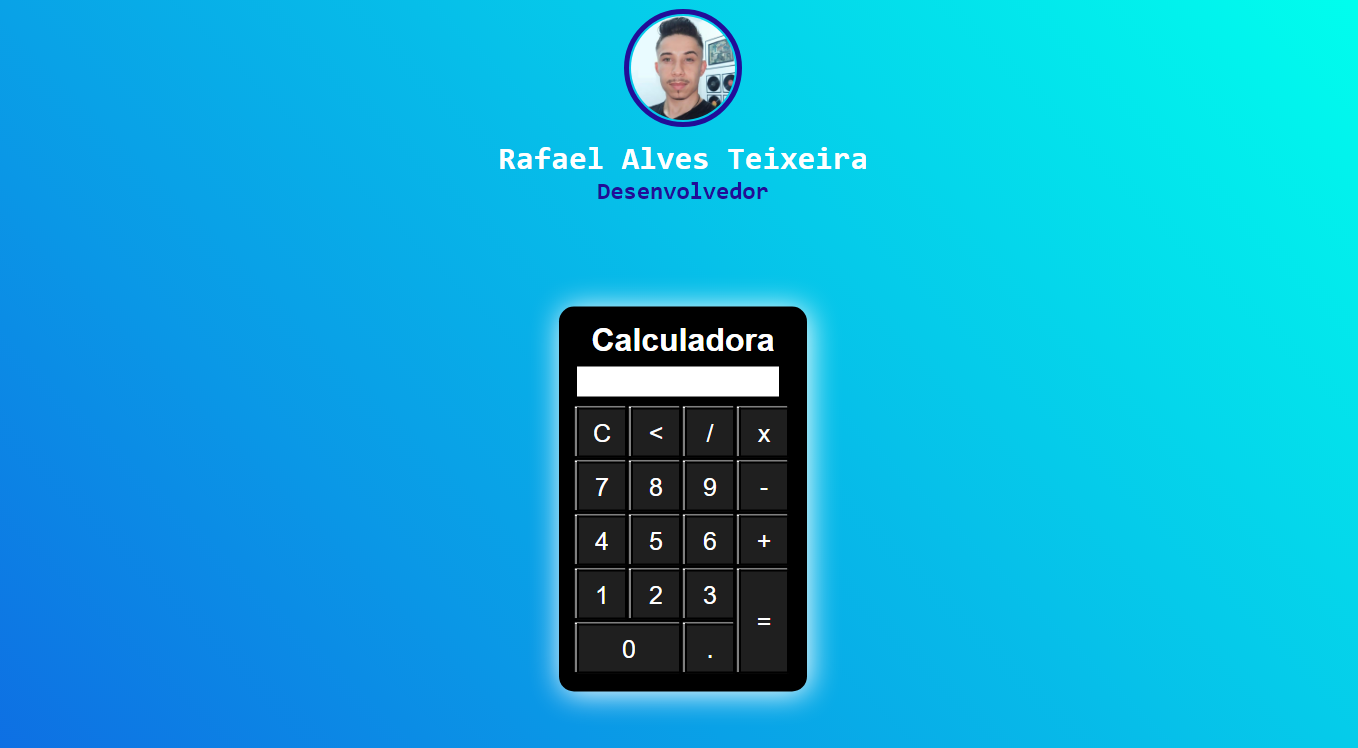
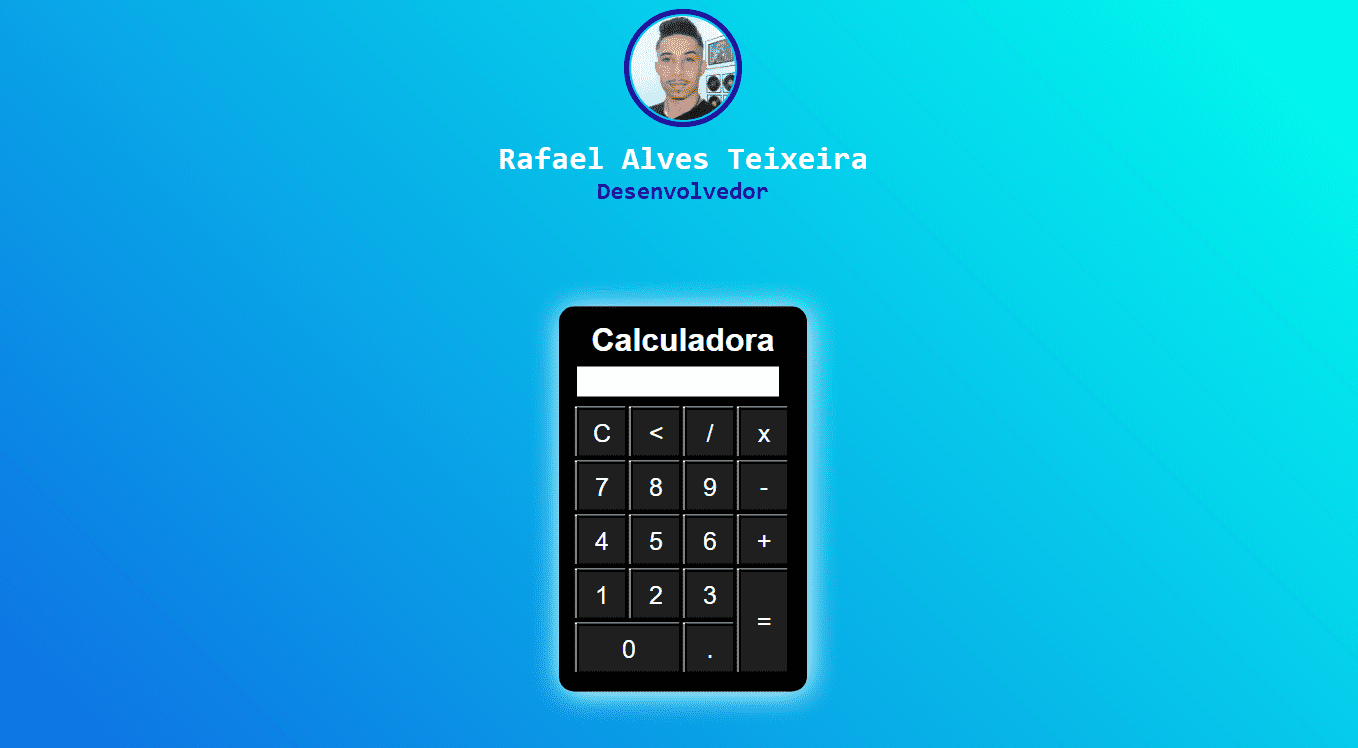
Compressed cards images, webp format

diff --git a/index.html b/index.html
@@ -83,21 +83,37 @@
                     <img src="imagens/AstronautaRafael.png" alt="Foto de Perfil Rafael">
                 </div>
                 <div class="card-sobre">
-                    <p> Minha paixão pela área de desenvolvimento e programação surgiu na época da minha graduação.  Desde o início me encantei com os estudos linguísticos de sintaxe, semântica e pragmática. E, ao final, escolhi fazer meu Trabalho de Conclusão de Curso (TCC) da faculdade no campo multidisciplinar da Linguística Computacional. Incrível experiência essa que me proporcionou ver e estudar a relação entre os estudos da linguagem humana e o desenvolvimento de linguagens de programação.
+                    <p> Minha paixão pela área de desenvolvimento e programação surgiu na época da minha graduação.
+                        Desde o início me encantei com os estudos linguísticos de sintaxe, semântica e pragmática. E, ao
+                        final, escolhi fazer meu Trabalho de Conclusão de Curso (TCC) da faculdade no campo
+                        multidisciplinar da Linguística Computacional. Incrível experiência essa que me proporcionou ver
+                        e estudar a relação entre os estudos da linguagem humana e o desenvolvimento de linguagens de
+                        programação.
                     </p>
 
-                    <p> Sou formado em Letras – Inglês/Português pela PUC-SP. Mesmo sendo professor de formação, logo que concluí a graduação eu abri a minha primeira empresa, uma livraria. Também atuei como sócio-administrador em uma agência de viagens, cujas atividades foram encerradas devido à pandemia.
-                        Estas escolhas, dentre outras experiências de trabalho, fizeram parte da minha estratégia de unir meu prazer pelo conhecimento com o meu anseio por colocar a mão na massa, encarar desafios e me expor diante de problemas para, de fato, desenvolver importantes habilidades profissionais, significativas no mundo corporativo.
+                    <p> Sou formado em Letras – Inglês/Português pela PUC-SP. Mesmo sendo professor de formação, logo
+                        que concluí a graduação eu abri a minha primeira empresa, uma livraria. Também atuei como
+                        sócio-administrador em uma agência de viagens, cujas atividades foram encerradas devido à
+                        pandemia.
+                        Estas escolhas, dentre outras experiências de trabalho, fizeram parte da minha estratégia de
+                        unir meu prazer pelo conhecimento com o meu anseio por colocar a mão na massa, encarar desafios
+                        e me expor diante de problemas para, de fato, desenvolver importantes habilidades profissionais,
+                        significativas no mundo corporativo.
                     </p>
 
-                    <p>Na minha trajetória profissional, eu aprendi muito e continuo buscando cada vez mais aprender e expandir meu conhecimento. Sempre optando por aquilo que me impulsiona a me tornar mais inteligente, mais eficiente e me desafia a evoluir.</p>
-                    <p>Foi assim, seguindo essa diretriz, que me identifiquei com o universo da programação de computadores. Aqui os principais paradigmas são: valorização do conhecimento, aprendizado constante, entrega de soluções, constante aprimoramento do uso de ferramentas tecnológicas, dinamismo e trabalho em equipe.</p>
+                    <p>Na minha trajetória profissional, eu aprendi muito e continuo buscando cada vez mais aprender e
+                        expandir meu conhecimento. Sempre optando por aquilo que me impulsiona a me tornar mais
+                        inteligente, mais eficiente e me desafia a evoluir.</p>
+                    <p>Foi assim, seguindo essa diretriz, que me identifiquei com o universo da programação de
+                        computadores. Aqui os principais paradigmas são: valorização do conhecimento, aprendizado
+                        constante, entrega de soluções, constante aprimoramento do uso de ferramentas tecnológicas,
+                        dinamismo e trabalho em equipe.</p>
                 </div>
             </div>
         </section>
 
 
-        <section class="sessao-conhecimentos" id="conhecimentos" >
+        <section class="sessao-conhecimentos" id="conhecimentos">
             <div class="sessao-header">
                 <h1 id="conhecimentos">Conhecimentos</h1>
             </div>
@@ -150,83 +166,111 @@
             <div class="sessao-header">
                 <h1>Projetos</h1>
             </div>
-            <div class="projetos">            
+            <div class="projetos">
                 <div class="card">
                     <div class="card-img-wrapper">
-                        <img src="./imagens/catalogoFilmes.png" alt="imagem do projeto Catálogo de Filmes" />
+                        <picture>
+                            <source srcset="./imagens/catalogoFilmes.webp" type="image/webp">
+                            <img src="./imagens/catalogoFilmes.png" alt="imagem do projeto Catálogo de Filmes" />
+                        </picture>
                     </div>
                     <div class="card-info">
                         <h2>Catálogo de Filmes</h2>
-                        <p>Projeto de layout um Catálogo para avaliação de filmes. Foi feita a <i>responsividade</i> da página para funcionamento em diferentes dispositivos.</p>
+                        <p>Projeto de layout um Catálogo para avaliação de filmes. Foi feita a <i>responsividade</i> da
+                            página para funcionamento em diferentes dispositivos.</p>
                         <button class="btn">Testar página</button>
                         <div class="tecs"> HTML | CSS</div>
                     </div>
                 </div>
                 <div class="card">
                     <div class="card-img-wrapper">
-                        <img src="./imagens/controleVendasDSMeta.png" alt="imagem do projeto Controle de Vendas - DSMETA" />
+                        <picture>
+                            <source srcset="./imagens/controleVendasDSMeta.webp" type="image/webp">
+                            <img src="./imagens/controleVendasDSMeta.png" alt="imagem do projeto Controle de Vendas - DSMETA" />
+                        </picture>                     
                     </div>
                     <div class="card-info">
                         <h2>Controle de Vendas</h2>
-                        <p>Tabela de controle para realizar um levantamento, por período, dos vendedores que atingiram suas metas de venda. Também possui <i>responsividade</i> para outros dispositivos.</p>
+                        <p>Tabela de controle para realizar um levantamento, por período, dos vendedores que atingiram
+                            suas metas de venda. Também possui <i>responsividade</i> para outros dispositivos.</p>
                         <button class="btn">Saiba Mais</button>
                         <div class="tecs"> Javascript | HTML | CSS</div>
                     </div>
                 </div>
                 <div class="card">
                     <div class="card-img-wrapper">
-                        <img src="./imagens/calculadora.png" alt="imagem do projeto Calculadora" />
+                        <picture>
+                            <source srcset="./imagens/calculadora.webp" type="image/webp">
+                            <img src="./imagens/calculadora.png" alt="imagem do projeto Calculadora"/>
+                        </picture>                         
                     </div>
                     <div class="card-info">
                         <h2>Calculadora</h2>
-                        <p>Nesse projeto o objetivo foi criar uma calculadora para praticar tanto as ferramentas de HTML e CSS, quanto Javascript através de funções e manipulação do DOM.</p>
+                        <p>Nesse projeto o objetivo foi criar uma calculadora para praticar tanto as ferramentas de HTML
+                            e CSS, quanto Javascript através de funções e manipulação do DOM.</p>
                         <button class="btn">Saiba Mais</button>
                         <div class="tecs">Javascript | HTML | CSS</div>
                     </div>
-                </div>    
+                </div>
                 <div class="card">
                     <div class="card-img-wrapper">
-                        <img src="./imagens/mundoInvertido.png" alt="imagem do projeto Mundo Invertido - Stranger Things" />
+                        <picture>
+                            <source srcset="./imagens/mundoInvertido.webp" type="image/webp">
+                            <img src="./imagens/mundoInvertido.png" alt="imagem do projeto Mundo Invertido - Stranger Things"/>
+                        </picture>                          
                     </div>
                     <div class="card-info">
                         <h2>Mundo Invertido</h2>
-                        <p>Com o tema da série: "Stranger Things", a estilização do CSS tem a opção de trocar para modo "dark". E também um formulário de cadastro de novos membros.</p>
+                        <p>Com o tema da série: "Stranger Things", a estilização do CSS tem a opção de trocar para modo
+                            "dark". E também um formulário de cadastro de novos membros.</p>
                         <button class="btn">Testar página</button>
                         <div class="tecs">Javascript | HTML | CSS</div>
                     </div>
                 </div>
                 <div class="card">
                     <div class="card-img-wrapper">
-                        <img src="./imagens/menuCafeteria.png" alt="imagem do projeto Menu de Cafeteria" />
+                        <picture>
+                            <source srcset="./imagens/menuCafeteria.webp" type="image/webp">
+                            <img src="./imagens/menuCafeteria.png" alt="imagem do projeto Menu de Cafeteria"/>
+                        </picture>                        
                     </div>
                     <div class="card-info">
                         <h2>Menu de Cafeteria</h2>
-                        <p>Esse é um projeto de layout de um site de uma cafeteria. Também foi estilizado para ter uma apresentação responsiva no android.</p>
+                        <p>Esse é um projeto de layout de um site de uma cafeteria. Também foi estilizado para ter uma
+                            apresentação responsiva no android.</p>
                         <button class="btn">Saiba Mais</button>
                         <div class="tecs">HTML | CSS</div>
                     </div>
                 </div>
                 <div class="card">
                     <div class="card-img-wrapper">
-                        <img src="./imagens/calculadoraGorjeta.png" alt="imagem do projeto de uma calculadora de gorjetas" />
+                        <picture>
+                            <source srcset="./imagens/calculadoraGorjeta.webp" type="image/webp">
+                            <img src="./imagens/calculadoraGorjeta.png" alt="imagem do projeto de uma calculadora de gorjetas"/>
+                        </picture>                                                    
                     </div>
                     <div class="card-info">
                         <h2>Calculadora de Gorjetas</h2>
-                        <p>Esse projeto em encaixa no conceito de criar soluções e ferramentas úteis para simples demandas do cotidiano.</p>
+                        <p>Esse projeto em encaixa no conceito de criar soluções e ferramentas úteis para simples
+                            demandas do cotidiano.</p>
                         <button class="btn">Saiba Mais</button>
                         <div class="tecs">Javascript | HTML | CSS</div>
                     </div>
                 </div>
-           
 
-            
+
+
                 <div class="card">
                     <div class="card-img-wrapper">
-                        <img src="./imagens/newsLetter.png" alt="imagem do projeto Newsetter" />
+                        <picture>
+                            <source srcset="./imagens/newsLetter.webp" type="image/webp">
+                            <img src="./imagens/newsLetter.png" alt="imagem do projeto Newsetter"/>
+                        </picture>                         
                     </div>
                     <div class="card-info">
                         <h2>Newsletter</h2>
-                        <p>Esse é um dos projetos que fazem parte dos desafios no site da Rocketseat. Aqui pude praticar a estilização de uma página para cadastro em site de notícias.</p>
+                        <p>Esse é um dos projetos que fazem parte dos desafios no site da Rocketseat. Aqui pude praticar
+                            a estilização de uma página para cadastro em site de notícias.</p>
                         <button class="btn">Saiba Mais</button>
                         <div class="tecs">Javascript | HTML | CSS</div>
                     </div>
@@ -234,22 +278,30 @@
 
                 <div class="card">
                     <div class="card-img-wrapper">
-                        <img src="./imagens/geradorSenha.png" alt="imagem do projeto Gerador de Senha" />
+                        <picture>
+                            <!-- <source srcset="./imagens/geradorSenha.webp" type="image/webp"> -->
+                            <img src="./imagens/geradorSenha.png" alt="imagem do projeto Gerador de Senha"/>
+                        </picture>                          
                     </div>
                     <div class="card-info">
                         <h2>Gerador de Senha</h2>
-                        <p>Frequentemente precisamos criar senhas para diferentes contas. Esse programa gera uma senha automaticamente para você. Basta escolher qual o tamanho da senha que você precisa.</p>
+                        <p>Frequentemente precisamos criar senhas para diferentes contas. Esse programa gera uma senha
+                            automaticamente para você. Basta escolher qual o tamanho da senha que você precisa.</p>
                         <button class="btn">Saiba Mais</button>
                         <div class="tecs">Javascript | HTML | CSS</div>
                     </div>
                 </div>
                 <div class="card">
                     <div class="card-img-wrapper">
-                        <img src="./imagens/reveladorDestino.gif" alt="imagem do projeto Revelador de Destinho" />
+                        <picture>
+                            <!-- <source srcset="./imagens/reveladorDestino.webp" type="image/webp"> -->
+                            <img src="./imagens/reveladorDestino.gif" alt="imagem do projeto Revelador de Destinho"/>
+                        </picture>                         
                     </div>
                     <div class="card-info">
                         <h2>Revelador de Destino</h2>
-                        <p>Divirta-se ao perguntar sobre o seu destino? Este site irá trazer respostas para as suas perguntas. <br>Aviso: Cuidado com o que pergunta! Você pode não gostar da resposta</p>
+                        <p>Divirta-se ao perguntar sobre o seu destino? Este site irá trazer respostas para as suas
+                            perguntas. <br>Aviso: Cuidado com o que pergunta! Você pode não gostar da resposta</p>
                         <button class="btn">Saiba Mais</button>
                         <div class="tecs">Javascript | HTML | CSS</div>
                     </div>
@@ -283,20 +335,20 @@
             <div class="card-contato" onclick="copiarTexto()">
                 <i class="fa-brands fa-linkedin"></i>
                 <input type="text" name="texto" id="texto3" placeholder="@rafael-alves-teixeira"
-                value="@rafael-alves-teixeira" readonly/>
+                    value="@rafael-alves-teixeira" readonly />
             </div>
 
 
             <div class="card-contato" onclick="copiarTexto()">
                 <i class="fa fa-envelope"></i>
                 <input type="text" name="texto" id="texto2" placeholder="rafael.info.tc@gmail.com"
-                value="rafael.info.tc@gmail.com" readonly/>
+                    value="rafael.info.tc@gmail.com" readonly />
             </div>
 
-            <div class="card-contato"  onclick="copiarTexto()">
+            <div class="card-contato" onclick="copiarTexto()">
                 <i class="fa-brands fa-whatsapp"></i>
-                <input type="text" name="texto" id="texto3" placeholder="(11) 95839-9657"
-                value="(11) 95839-9657" readonly/>
+                <input type="text" name="texto" id="texto3" placeholder="(11) 95839-9657" value="(11) 95839-9657"
+                    readonly />
             </div>
 
         </div>
@@ -304,13 +356,13 @@
             <div class="footer-content">
                 <p>By: Rafael Alves Teixeira</p>
                 <p>Veja meu Github:</p>
-                
+
                 <a href="https://github.com/rafael-alves-teixeira" target="_blank"><i class="fab fa-github"></i></a>
 
-                
-                    <!-- <a href="https://github.com/rafael-alves-teixeira" target="_blank">
+
+                <!-- <a href="https://github.com/rafael-alves-teixeira" target="_blank">
                     <i class="fab fa-github-alt"></i></a> -->
-                              
+
             </div>
         </footer>
     </section>
@@ -321,4 +373,5 @@
     </div>
     <script src="script.js"></script>
 </body>
+
 </html>

diff --git a/script.js b/script.js
@@ -1,5 +1,6 @@
-document.querySelector(".hamburguer").addEventListener("click", () =>
+document.querySelector(".hamburguer").addEventListener("click", () => 
 document.querySelector(".container").classList.toggle("show-menu"));
+
 
 var audio = document.getElementById('audio');
 var audioTocando = false;

diff --git a/style.css b/style.css
@@ -880,12 +880,12 @@ footer {
     height: 10vh;    
     position: fixed;
     top: 0;
-    right: -125vw;
+    /* right: -125vw; */
     transition: all 1s;
   }
   
   .show-menu .topbar {
-    right: 0;
+    right: 50;
     z-index: 125;
   }
 
